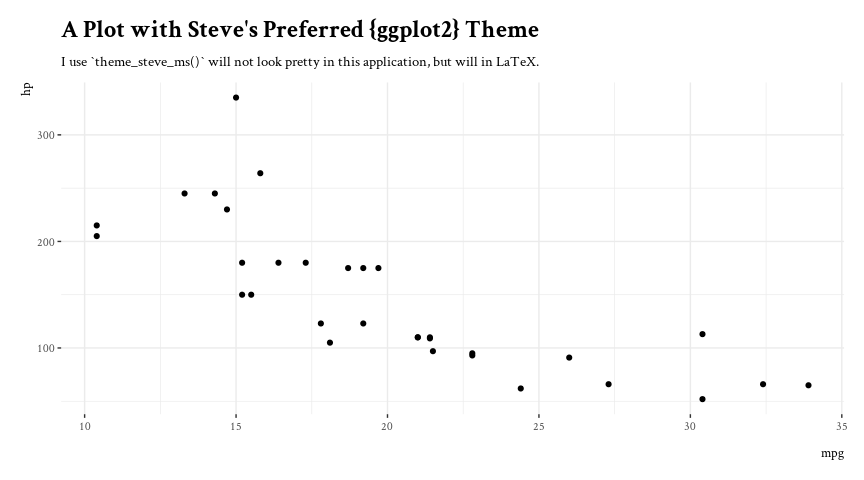
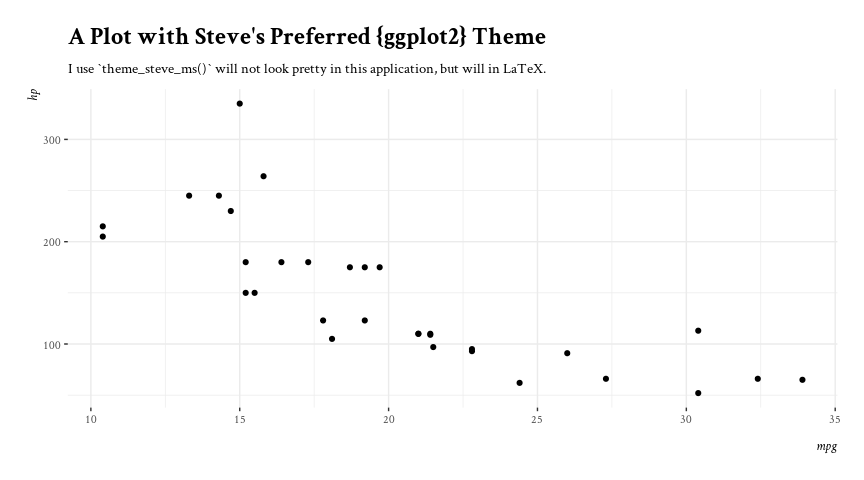
new thing

diff --git a/docs/reference/corvectors.html b/docs/reference/corvectors.html
@@ -191,35 +191,35 @@ They call it <code>correlate()</code> in their package, but I opt for <code>corv
 <span class='co'># bivariate example, start with zero correlation</span>
 <span class='fu'><a href='https://tibble.tidyverse.org/reference/as_tibble.html'>as_tibble</a></span><span class='op'>(</span><span class='fu'><a href='https://rdrr.io/r/base/data.frame.html'>data.frame</a></span><span class='op'>(</span><span class='fu'>corvectors</span><span class='op'>(</span><span class='fu'><a href='https://rdrr.io/r/base/lapply.html'>replicate</a></span><span class='op'>(</span><span class='fl'>2</span>, <span class='fu'><a href='https://rdrr.io/r/stats/Normal.html'>rnorm</a></span><span class='op'>(</span><span class='fl'>100</span><span class='op'>)</span><span class='op'>)</span>, <span class='fl'>.5</span><span class='op'>)</span><span class='op'>)</span><span class='op'>)</span>
 </div><div class='output co'>#&gt; <span style='color: #949494;'># A tibble: 100 x 2</span><span>
-#&gt;          X1     X2
-#&gt;       </span><span style='color: #949494;font-style: italic;'>&lt;dbl&gt;</span><span>  </span><span style='color: #949494;font-style: italic;'>&lt;dbl&gt;</span><span>
-#&gt; </span><span style='color: #BCBCBC;'> 1</span><span>  0.722    0.303
-#&gt; </span><span style='color: #BCBCBC;'> 2</span><span>  0.684   -</span><span style='color: #BB0000;'>0.958</span><span>
-#&gt; </span><span style='color: #BCBCBC;'> 3</span><span> -</span><span style='color: #BB0000;'>1.31</span><span>    -</span><span style='color: #BB0000;'>0.155</span><span>
-#&gt; </span><span style='color: #BCBCBC;'> 4</span><span>  1.57     1.44 
-#&gt; </span><span style='color: #BCBCBC;'> 5</span><span>  0.214    1.17 
-#&gt; </span><span style='color: #BCBCBC;'> 6</span><span> -</span><span style='color: #BB0000;'>0.415</span><span>   -</span><span style='color: #BB0000;'>0.690</span><span>
-#&gt; </span><span style='color: #BCBCBC;'> 7</span><span> -</span><span style='color: #BB0000;'>0.652</span><span>   -</span><span style='color: #BB0000;'>2.60</span><span> 
-#&gt; </span><span style='color: #BCBCBC;'> 8</span><span> -</span><span style='color: #BB0000;'>0.151</span><span>    0.592
-#&gt; </span><span style='color: #BCBCBC;'> 9</span><span> -</span><span style='color: #BB0000;'>0.003</span><span style='color: #BB0000;text-decoration: underline;'>79</span><span> -</span><span style='color: #BB0000;'>1.70</span><span> 
-#&gt; </span><span style='color: #BCBCBC;'>10</span><span> -</span><span style='color: #BB0000;'>0.926</span><span>    0.146
+#&gt;          X1       X2
+#&gt;       </span><span style='color: #949494;font-style: italic;'>&lt;dbl&gt;</span><span>    </span><span style='color: #949494;font-style: italic;'>&lt;dbl&gt;</span><span>
+#&gt; </span><span style='color: #BCBCBC;'> 1</span><span>  0.722    0.303  
+#&gt; </span><span style='color: #BCBCBC;'> 2</span><span>  0.684    0.276  
+#&gt; </span><span style='color: #BCBCBC;'> 3</span><span> -</span><span style='color: #BB0000;'>1.31</span><span>     0.990  
+#&gt; </span><span style='color: #BCBCBC;'> 4</span><span>  1.57     1.91   
+#&gt; </span><span style='color: #BCBCBC;'> 5</span><span>  0.214    0.146  
+#&gt; </span><span style='color: #BCBCBC;'> 6</span><span> -</span><span style='color: #BB0000;'>0.415</span><span>   -</span><span style='color: #BB0000;'>0.958</span><span>  
+#&gt; </span><span style='color: #BCBCBC;'> 7</span><span> -</span><span style='color: #BB0000;'>0.652</span><span>   -</span><span style='color: #BB0000;'>2.09</span><span>   
+#&gt; </span><span style='color: #BCBCBC;'> 8</span><span> -</span><span style='color: #BB0000;'>0.151</span><span>   -</span><span style='color: #BB0000;'>0.710</span><span>  
+#&gt; </span><span style='color: #BCBCBC;'> 9</span><span> -</span><span style='color: #BB0000;'>0.003</span><span style='color: #BB0000;text-decoration: underline;'>79</span><span>  0.001</span><span style='text-decoration: underline;'>49</span><span>
+#&gt; </span><span style='color: #BCBCBC;'>10</span><span> -</span><span style='color: #BB0000;'>0.926</span><span>   -</span><span style='color: #BB0000;'>0.605</span><span>  
 #&gt; </span><span style='color: #949494;'># … with 90 more rows</span><span></div><div class='input'>
 <span class='co'># multivariate example</span>
 
 <span class='fu'><a href='https://tibble.tidyverse.org/reference/as_tibble.html'>as_tibble</a></span><span class='op'>(</span><span class='fu'><a href='https://rdrr.io/r/base/data.frame.html'>data.frame</a></span><span class='op'>(</span><span class='fu'>corvectors</span><span class='op'>(</span><span class='fu'><a href='https://rdrr.io/r/base/lapply.html'>replicate</a></span><span class='op'>(</span><span class='fl'>4</span>, <span class='fu'><a href='https://rdrr.io/r/stats/Normal.html'>rnorm</a></span><span class='op'>(</span><span class='fl'>100</span><span class='op'>)</span><span class='op'>)</span>, <span class='fu'><a href='https://rdrr.io/r/base/c.html'>c</a></span><span class='op'>(</span><span class='fl'>.5</span>, <span class='fl'>.6</span>, <span class='fl'>.7</span><span class='op'>)</span><span class='op'>)</span><span class='op'>)</span><span class='op'>)</span>
 </div><div class='output co'>#&gt; </span><span style='color: #949494;'># A tibble: 100 x 4</span><span>
-#&gt;         X1       X2      X3      X4
-#&gt;      </span><span style='color: #949494;font-style: italic;'>&lt;dbl&gt;</span><span>    </span><span style='color: #949494;font-style: italic;'>&lt;dbl&gt;</span><span>   </span><span style='color: #949494;font-style: italic;'>&lt;dbl&gt;</span><span>   </span><span style='color: #949494;font-style: italic;'>&lt;dbl&gt;</span><span>
-#&gt; </span><span style='color: #BCBCBC;'> 1</span><span> -</span><span style='color: #BB0000;'>0.627</span><span>   0.238    0.072</span><span style='text-decoration: underline;'>0</span><span> -</span><span style='color: #BB0000;'>1.88</span><span>  
-#&gt; </span><span style='color: #BCBCBC;'> 2</span><span> -</span><span style='color: #BB0000;'>0.167</span><span>  -</span><span style='color: #BB0000;'>0.679</span><span>    0.359  -</span><span style='color: #BB0000;'>0.143</span><span> 
-#&gt; </span><span style='color: #BCBCBC;'> 3</span><span> -</span><span style='color: #BB0000;'>0.485</span><span>  -</span><span style='color: #BB0000;'>1.24</span><span>    -</span><span style='color: #BB0000;'>0.770</span><span>  -</span><span style='color: #BB0000;'>1.36</span><span>  
-#&gt; </span><span style='color: #BCBCBC;'> 4</span><span>  0.339   0.512   -</span><span style='color: #BB0000;'>0.827</span><span>   0.169 
-#&gt; </span><span style='color: #BCBCBC;'> 5</span><span>  0.025</span><span style='text-decoration: underline;'>8</span><span> -</span><span style='color: #BB0000;'>1.06</span><span>    -</span><span style='color: #BB0000;'>0.056</span><span style='color: #BB0000;text-decoration: underline;'>6</span><span> -</span><span style='color: #BB0000;'>0.204</span><span> 
-#&gt; </span><span style='color: #BCBCBC;'> 6</span><span> -</span><span style='color: #BB0000;'>1.14</span><span>   -</span><span style='color: #BB0000;'>1.06</span><span>     1.15   -</span><span style='color: #BB0000;'>0.977</span><span> 
-#&gt; </span><span style='color: #BCBCBC;'> 7</span><span>  1.87    0.001</span><span style='text-decoration: underline;'>98</span><span>  1.12    2.50  
-#&gt; </span><span style='color: #BCBCBC;'> 8</span><span> -</span><span style='color: #BB0000;'>0.209</span><span>  -</span><span style='color: #BB0000;'>0.121</span><span>   -</span><span style='color: #BB0000;'>0.409</span><span>  -</span><span style='color: #BB0000;'>1.76</span><span>  
-#&gt; </span><span style='color: #BCBCBC;'> 9</span><span>  1.29    2.01    -</span><span style='color: #BB0000;'>0.173</span><span>   0.992 
-#&gt; </span><span style='color: #BCBCBC;'>10</span><span> -</span><span style='color: #BB0000;'>0.824</span><span>  -</span><span style='color: #BB0000;'>0.051</span><span style='color: #BB0000;text-decoration: underline;'>1</span><span>  -</span><span style='color: #BB0000;'>0.239</span><span>  -</span><span style='color: #BB0000;'>0.027</span><span style='color: #BB0000;text-decoration: underline;'>3</span><span>
+#&gt;         X1     X2      X3      X4
+#&gt;      </span><span style='color: #949494;font-style: italic;'>&lt;dbl&gt;</span><span>  </span><span style='color: #949494;font-style: italic;'>&lt;dbl&gt;</span><span>   </span><span style='color: #949494;font-style: italic;'>&lt;dbl&gt;</span><span>   </span><span style='color: #949494;font-style: italic;'>&lt;dbl&gt;</span><span>
+#&gt; </span><span style='color: #BCBCBC;'> 1</span><span> -</span><span style='color: #BB0000;'>0.105</span><span>  -</span><span style='color: #BB0000;'>1.78</span><span>   0.706  -</span><span style='color: #BB0000;'>0.530</span><span> 
+#&gt; </span><span style='color: #BCBCBC;'> 2</span><span>  0.053</span><span style='text-decoration: underline;'>6</span><span> -</span><span style='color: #BB0000;'>0.525</span><span>  0.425   0.090</span><span style='text-decoration: underline;'>9</span><span>
+#&gt; </span><span style='color: #BCBCBC;'> 3</span><span> -</span><span style='color: #BB0000;'>1.07</span><span>   -</span><span style='color: #BB0000;'>1.73</span><span>  -</span><span style='color: #BB0000;'>0.442</span><span>  -</span><span style='color: #BB0000;'>1.37</span><span>  
+#&gt; </span><span style='color: #BCBCBC;'> 4</span><span>  0.726  -</span><span style='color: #BB0000;'>1.12</span><span>   1.17    0.853 
+#&gt; </span><span style='color: #BCBCBC;'> 5</span><span> -</span><span style='color: #BB0000;'>0.192</span><span>  -</span><span style='color: #BB0000;'>0.293</span><span>  0.125  -</span><span style='color: #BB0000;'>0.889</span><span> 
+#&gt; </span><span style='color: #BCBCBC;'> 6</span><span> -</span><span style='color: #BB0000;'>0.824</span><span>  -</span><span style='color: #BB0000;'>1.61</span><span>   0.013</span><span style='text-decoration: underline;'>3</span><span> -</span><span style='color: #BB0000;'>1.67</span><span>  
+#&gt; </span><span style='color: #BCBCBC;'> 7</span><span> -</span><span style='color: #BB0000;'>1.20</span><span>   -</span><span style='color: #BB0000;'>0.765</span><span> -</span><span style='color: #BB0000;'>0.827</span><span>  -</span><span style='color: #BB0000;'>0.087</span><span style='color: #BB0000;text-decoration: underline;'>8</span><span>
+#&gt; </span><span style='color: #BCBCBC;'> 8</span><span>  0.918  -</span><span style='color: #BB0000;'>0.415</span><span>  0.266   1.25  
+#&gt; </span><span style='color: #BCBCBC;'> 9</span><span> -</span><span style='color: #BB0000;'>0.332</span><span>   0.811  0.231  -</span><span style='color: #BB0000;'>0.239</span><span> 
+#&gt; </span><span style='color: #BCBCBC;'>10</span><span>  0.099</span><span style='text-decoration: underline;'>5</span><span>  0.482  1.65    0.542 
 #&gt; </span><span style='color: #949494;'># … with 90 more rows</span><span></div><div class='input'>
 <span class='co'># }</span>
 

diff --git a/docs/reference/ggplot-themes.html b/docs/reference/ggplot-themes.html
@@ -48,7 +48,8 @@ tweaking a few things. I've since moved to theme_steve_web() for most things
 now, prominently on my website. It incorporates the &quot;Open Sans&quot; and &quot;Titillium Web&quot;
 fonts that I like so much. post_bg() is for changing the backgrounds on
 plots to better match my website for posts that I write. theme_steve_ms() is
-for LaTeX manuscripts that use the cochineal font package." />
+for LaTeX manuscripts that use the cochineal font package. theme_steve_font() is
+for any purpose, allowing you to supply your own font." />
 
 
 
@@ -131,7 +132,8 @@ tweaking a few things. I've since moved to <code>theme_steve_web()</code> for mo
 now, prominently on my website. It incorporates the "Open Sans" and "Titillium Web"
 fonts that I like so much. <code>post_bg()</code> is for changing the backgrounds on
 plots to better match my website for posts that I write. <code>theme_steve_ms()</code> is
-for <code>LaTeX</code> manuscripts that use the <code>cochineal</code> font package.</p>
+for <code>LaTeX</code> manuscripts that use the <code>cochineal</code> font package. <code>theme_steve_font()</code> is
+for any purpose, allowing you to supply your own font.</p>
     </div>
 
     <pre class="usage"><span class='fu'>theme_steve</span><span class='op'>(</span><span class='va'>...</span><span class='op'>)</span>
@@ -140,7 +142,9 @@ for <code>LaTeX</code> manuscripts that use the <code>cochineal</code> font pack
 
 <span class='fu'>post_bg</span><span class='op'>(</span><span class='va'>...</span><span class='op'>)</span>
 
-<span class='fu'>theme_steve_ms</span><span class='op'>(</span>axis_face <span class='op'>=</span> <span class='st'>"italic"</span>, caption_face <span class='op'>=</span> <span class='st'>"italic"</span>, <span class='va'>...</span><span class='op'>)</span></pre>
+<span class='fu'>theme_steve_ms</span><span class='op'>(</span>axis_face <span class='op'>=</span> <span class='st'>"italic"</span>, caption_face <span class='op'>=</span> <span class='st'>"italic"</span>, <span class='va'>...</span><span class='op'>)</span>
+
+<span class='fu'>theme_steve_font</span><span class='op'>(</span>axis_face <span class='op'>=</span> <span class='st'>"italic"</span>, caption_face <span class='op'>=</span> <span class='st'>"italic"</span>, <span class='va'>font</span>, <span class='va'>...</span><span class='op'>)</span></pre>
 
     <h2 class="hasAnchor" id="arguments"><a class="anchor" href="#arguments"></a>Arguments</h2>
     <table class="ref-arguments">
@@ -157,6 +161,10 @@ for <code>LaTeX</code> manuscripts that use the <code>cochineal</code> font pack
       <th>caption_face</th>
       <td><p>font face ("plain", "italic", "bold", "bold.italic"). Optional, defaults to "italic". Applicable only to <code>theme_steve_ms()</code>.</p></td>
     </tr>
+    <tr>
+      <th>font</th>
+      <td><p>font family for the plot. Applicable only to <code>theme_steve_font()</code>.</p></td>
+    </tr>
     </table>
 
     <h2 class="hasAnchor" id="value"><a class="anchor" href="#value"></a>Value</h2>
@@ -167,7 +175,8 @@ for <code>LaTeX</code> manuscripts that use the <code>cochineal</code> font pack
 <code>theme_steve()</code> to add custom fonts, notably "Open Sans" and "Titillium Web". In all cases, these
 functions take a <span class="pkg">ggplot2</span> plot and return another <span class="pkg">ggplot2</span> plot, but with some cosmetic
 changes. <code>theme_steve_ms()</code> takes a <span class="pkg">ggplot2</span> plot and overlays "Crimson Text" fonts, which is
-the basis of the <code>cochineal</code> font package in <code>LaTeX</code>.</p>
+the basis of the <code>cochineal</code> font package in <code>LaTeX</code>. <code>theme_steve_font()</code> takes a <span class="pkg">ggplot2</span> plot and
+overlays a font of your choosing.</p>
     <h2 class="hasAnchor" id="details"><a class="anchor" href="#details"></a>Details</h2>
 
     <p><code>theme_steve_web()</code> depends on having the fonts installed on your end.
@@ -201,6 +210,12 @@ It's ultimately optional for you to have them.</p>
 
 <span class='fu'><a href='https://ggplot2.tidyverse.org/reference/ggplot.html'>ggplot</a></span><span class='op'>(</span><span class='va'>mtcars</span>, <span class='fu'><a href='https://ggplot2.tidyverse.org/reference/aes.html'>aes</a></span><span class='op'>(</span>x <span class='op'>=</span> <span class='va'>mpg</span>, y <span class='op'>=</span> <span class='va'>hp</span><span class='op'>)</span><span class='op'>)</span> <span class='op'>+</span>
   <span class='fu'><a href='https://ggplot2.tidyverse.org/reference/geom_point.html'>geom_point</a></span><span class='op'>(</span><span class='op'>)</span> <span class='op'>+</span> <span class='fu'>theme_steve_ms</span><span class='op'>(</span><span class='op'>)</span> <span class='op'>+</span>
+  <span class='fu'><a href='https://ggplot2.tidyverse.org/reference/labs.html'>labs</a></span><span class='op'>(</span>title <span class='op'>=</span> <span class='st'>"A ggplot2 Plot from the Motor Trend Car Road Tests Data"</span>,
+  subtitle <span class='op'>=</span> <span class='st'>"Notice the fonts will match the 'cochineal' font package in LaTeX."</span>,
+  caption <span class='op'>=</span> <span class='st'>"Data: ?mtcars in {datasets} in base R."</span><span class='op'>)</span>
+
+<span class='fu'><a href='https://ggplot2.tidyverse.org/reference/ggplot.html'>ggplot</a></span><span class='op'>(</span><span class='va'>mtcars</span>, <span class='fu'><a href='https://ggplot2.tidyverse.org/reference/aes.html'>aes</a></span><span class='op'>(</span>x <span class='op'>=</span> <span class='va'>mpg</span>, y <span class='op'>=</span> <span class='va'>hp</span><span class='op'>)</span><span class='op'>)</span> <span class='op'>+</span>
+  <span class='fu'><a href='https://ggplot2.tidyverse.org/reference/geom_point.html'>geom_point</a></span><span class='op'>(</span><span class='op'>)</span> <span class='op'>+</span> <span class='fu'>theme_steve_font</span><span class='op'>(</span>font <span class='op'>=</span> <span class='st'>"Comic Sans MS"</span><span class='op'>)</span> <span class='op'>+</span>
   <span class='fu'><a href='https://ggplot2.tidyverse.org/reference/labs.html'>labs</a></span><span class='op'>(</span>title <span class='op'>=</span> <span class='st'>"A ggplot2 Plot from the Motor Trend Car Road Tests Data"</span>,
   subtitle <span class='op'>=</span> <span class='st'>"Notice the fonts will match the 'cochineal' font package in LaTeX."</span>,
   caption <span class='op'>=</span> <span class='st'>"Data: ?mtcars in {datasets} in base R."</span><span class='op'>)</span>

diff --git a/docs/index.html b/docs/index.html
@@ -163,16 +163,16 @@
 <span class="co">#&gt; # A tibble: 1,000 x 3</span>
 <span class="co">#&gt;     meals colgrad fullqual</span>
 <span class="co">#&gt;     &lt;dbl&gt;   &lt;dbl&gt;    &lt;dbl&gt;</span>
-<span class="co">#&gt;  1 17.9      32.4     98.4</span>
-<span class="co">#&gt;  2 10.5      39.5     99.4</span>
-<span class="co">#&gt;  3 17.0      21.8     98.4</span>
-<span class="co">#&gt;  4 75.5      10.2     79.4</span>
-<span class="co">#&gt;  5 71.6      16.0     68.5</span>
-<span class="co">#&gt;  6 72.0      14.3     91.6</span>
-<span class="co">#&gt;  7 65.3      13.5     74.4</span>
-<span class="co">#&gt;  8 95.2      20.3     93.9</span>
-<span class="co">#&gt;  9  0.100    61.3     98.3</span>
-<span class="co">#&gt; 10  9.58     34.6     93.1</span>
+<span class="co">#&gt;  1 17.9     32.4      98.4</span>
+<span class="co">#&gt;  2 10.5     43.1      96.9</span>
+<span class="co">#&gt;  3 17.0     41.6      89.6</span>
+<span class="co">#&gt;  4 75.5      1.98     79.4</span>
+<span class="co">#&gt;  5 71.6     22.8      82.6</span>
+<span class="co">#&gt;  6 72.0      7.39     91.6</span>
+<span class="co">#&gt;  7 65.3     13.4      74.4</span>
+<span class="co">#&gt;  8 95.2     10.2      65.5</span>
+<span class="co">#&gt;  9  0.100   25.9      98.3</span>
+<span class="co">#&gt; 10  9.58    47.5      93.1</span>
 <span class="co">#&gt; # … with 990 more rows</span></code></pre></div>
 </div>
 <div id="db_lselect-lazily-select-variables-from-multiple-tables-in-a-relational-database" class="section level3">
@@ -555,14 +555,21 @@
   <span class="fu">labs</span><span class="op">(</span>title <span class="op">=</span> <span class="st">"A Plot with Steve's Preferred {ggplot2} Theme"</span>,
        subtitle <span class="op">=</span> <span class="st">"I use `theme_steve_ms()` will not look pretty in this application, but will in LaTeX."</span><span class="op">)</span></code></pre></div>
 <p><img src="reference/figures/README-unnamed-chunk-17-3.png" width="80%" style="display: block; margin: auto;"></p>
+<div class="sourceCode" id="cb21"><pre class="downlit sourceCode r">
+<code class="sourceCode R">
+<span class="va">mtcars</span> <span class="op">%&gt;%</span>
+  <span class="fu">ggplot</span><span class="op">(</span><span class="va">.</span>,<span class="fu">aes</span><span class="op">(</span><span class="va">mpg</span>, <span class="va">hp</span><span class="op">)</span><span class="op">)</span> <span class="op">+</span>
+  <span class="fu">geom_point</span><span class="op">(</span><span class="op">)</span> <span class="op">+</span>
+  <span class="fu"><a href="reference/theme_steve.html">theme_steve_font</a></span><span class="op">(</span>font <span class="op">=</span> <span class="st">"Comic Sans MS"</span><span class="op">)</span> <span class="op">+</span>
+  <span class="fu">labs</span><span class="op">(</span>title <span class="op">=</span> <span class="st">"A Plot with Steve's Preferred {ggplot2} Theme"</span>,
+       subtitle <span class="op">=</span> <span class="st">"I use `theme_steve_font()` for the occasional document that uses Palatino type fonts. Here: it's Comic Sans."</span><span class="op">)</span></code></pre></div>
+<p><img src="reference/figures/README-unnamed-chunk-17-4.png" width="80%" style="display: block; margin: auto;"></p>
 </div>
 <div id="the-student-t-distribution-location-scale-version" class="section level3">
 <h3 class="hasAnchor">
 <a href="#the-student-t-distribution-location-scale-version" class="anchor"></a>The Student-t Distribution (Location-Scale Version)</h3>
-<p>Finally, I added a few functions for extending the “standard” t-distribution in R into the three-parameter “location-scale” version. This generalizes the Student-t and is useful for getting acclimated with more general Student-t distributions, which are quite common in Bayesian analyses. <code><a href="reference/studentt.html">dst()</a></code> (density), <code><a href="reference/studentt.html">pst()</a></code> (distribution function), <code><a href="reference/studentt.html">qst()</a></code> (quantile), and <code><a href="reference/studentt.html">rst()</a></code> (random number generation) are available. Here, for example, is using <code><a href="reference/studentt.html">rst()</a></code> to simulate data from one of the most common Student-t distributions in the world of Bayesian priors: the one with three degrees of freedom, a mean of 0, and a standard deviation of</p>
-<ol><li>
-</li></ol>
-<div class="sourceCode" id="cb21"><pre class="downlit sourceCode r">
+<p>Finally, I added a few functions for extending the “standard” t-distribution in R into the three-parameter “location-scale” version. This generalizes the Student-t and is useful for getting acclimated with more general Student-t distributions, which are quite common in Bayesian analyses. <code><a href="reference/studentt.html">dst()</a></code> (density), <code><a href="reference/studentt.html">pst()</a></code> (distribution function), <code><a href="reference/studentt.html">qst()</a></code> (quantile), and <code><a href="reference/studentt.html">rst()</a></code> (random number generation) are available. Here, for example, is using <code><a href="reference/studentt.html">rst()</a></code> to simulate data from one of the most common Student-t distributions in the world of Bayesian priors: the one with three degrees of freedom, a mean of zero, and a standard deviation of ten.</p>
+<div class="sourceCode" id="cb22"><pre class="downlit sourceCode r">
 <code class="sourceCode R"><span class="va">dat</span> <span class="op">&lt;-</span> <span class="fu">tibble</span><span class="op">(</span>x <span class="op">=</span> <span class="fu"><a href="reference/studentt.html">rst</a></span><span class="op">(</span><span class="fl">10000</span>, <span class="fl">3</span>, <span class="fl">0</span>, <span class="fl">10</span><span class="op">)</span><span class="op">)</span>
 
 <span class="va">dat</span> <span class="op">%&gt;%</span>

diff --git a/docs/reference/index.html b/docs/reference/index.html
@@ -186,7 +186,7 @@
       </tr><tr>
         
         <td>
-          <p><code><a href="ggplot-themes.html">theme_steve()</a></code> <code><a href="ggplot-themes.html">theme_steve_web()</a></code> <code><a href="ggplot-themes.html">post_bg()</a></code> <code><a href="ggplot-themes.html">theme_steve_ms()</a></code> </p>
+          <p><code><a href="ggplot-themes.html">theme_steve()</a></code> <code><a href="ggplot-themes.html">theme_steve_web()</a></code> <code><a href="ggplot-themes.html">post_bg()</a></code> <code><a href="ggplot-themes.html">theme_steve_ms()</a></code> <code><a href="ggplot-themes.html">theme_steve_font()</a></code> </p>
         </td>
         <td><p>Steve's Preferred <span class="pkg">ggplot2</span> Themes and Assorted Stuff</p></td>
       </tr><tr>

diff --git a/docs/news/index.html b/docs/news/index.html
@@ -122,7 +122,7 @@
 <ul>
 <li>Add <code><a href="../reference/r2sd.html">r2sd_at()</a></code>.</li>
 <li>Add <code><a href="../reference/revcode.html">revcode()</a></code>.</li>
-<li>Add <code><a href="../reference/theme_steve.html">theme_steve_ms()</a></code>.</li>
+<li>Add <code><a href="../reference/theme_steve.html">theme_steve_ms()</a></code> and <code><a href="../reference/theme_steve.html">theme_steve_font()</a></code>.</li>
 </ul>
 </div>
     <div id="stevemisc-110" class="section level2">

diff --git a/README.md b/README.md
@@ -135,16 +135,16 @@ corvectors(cbind(runif(nobs, 0, 100),
 #> # A tibble: 1,000 x 3
 #>     meals colgrad fullqual
 #>     <dbl>   <dbl>    <dbl>
-#>  1 17.9      32.4     98.4
-#>  2 10.5      39.5     99.4
-#>  3 17.0      21.8     98.4
-#>  4 75.5      10.2     79.4
-#>  5 71.6      16.0     68.5
-#>  6 72.0      14.3     91.6
-#>  7 65.3      13.5     74.4
-#>  8 95.2      20.3     93.9
-#>  9  0.100    61.3     98.3
-#> 10  9.58     34.6     93.1
+#>  1 17.9     32.4      98.4
+#>  2 10.5     43.1      96.9
+#>  3 17.0     41.6      89.6
+#>  4 75.5      1.98     79.4
+#>  5 71.6     22.8      82.6
+#>  6 72.0      7.39     91.6
+#>  7 65.3     13.4      74.4
+#>  8 95.2     10.2      65.5
+#>  9  0.100   25.9      98.3
+#> 10  9.58    47.5      93.1
 #> # … with 990 more rows
 ```
 
@@ -646,6 +646,18 @@ mtcars %>%
 
 <img src="man/figures/README-unnamed-chunk-17-3.png" width="80%" style="display: block; margin: auto;" />
 
+``` r
+
+mtcars %>%
+  ggplot(.,aes(mpg, hp)) +
+  geom_point() +
+  theme_steve_font(font = "Comic Sans MS") +
+  labs(title = "A Plot with Steve's Preferred {ggplot2} Theme",
+       subtitle = "I use `theme_steve_font()` for the occasional document that uses Palatino type fonts. Here: it's Comic Sans.")
+```
+
+<img src="man/figures/README-unnamed-chunk-17-4.png" width="80%" style="display: block; margin: auto;" />
+
 ### The Student-t Distribution (Location-Scale Version)
 
 Finally, I added a few functions for extending the “standard”
@@ -656,8 +668,8 @@ analyses. `dst()` (density), `pst()` (distribution function), `qst()`
 (quantile), and `rst()` (random number generation) are available. Here,
 for example, is using `rst()` to simulate data from one of the most
 common Student-t distributions in the world of Bayesian priors: the one
-with three degrees of freedom, a mean of 0, and a standard deviation of
-10.
+with three degrees of freedom, a mean of zero, and a standard deviation
+of ten.
 
 ``` r
 dat <- tibble(x = rst(10000, 3, 0, 10))

diff --git a/NEWS.md b/NEWS.md
@@ -3,7 +3,7 @@ stevemisc 1.2.0 (in development)
 
 - Add `r2sd_at()`.
 - Add `revcode()`.
-- Add `theme_steve_ms()`.
+- Add `theme_steve_ms()` and `theme_steve_font()`.
 
 stevemisc 1.1.0
 ---------------------------------------------------------------------
